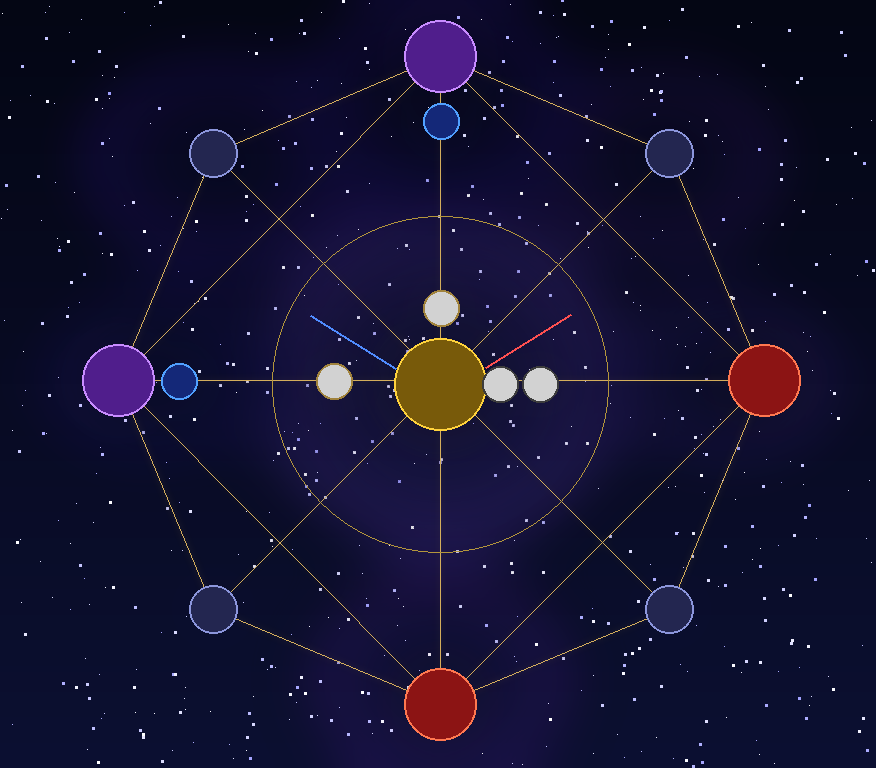
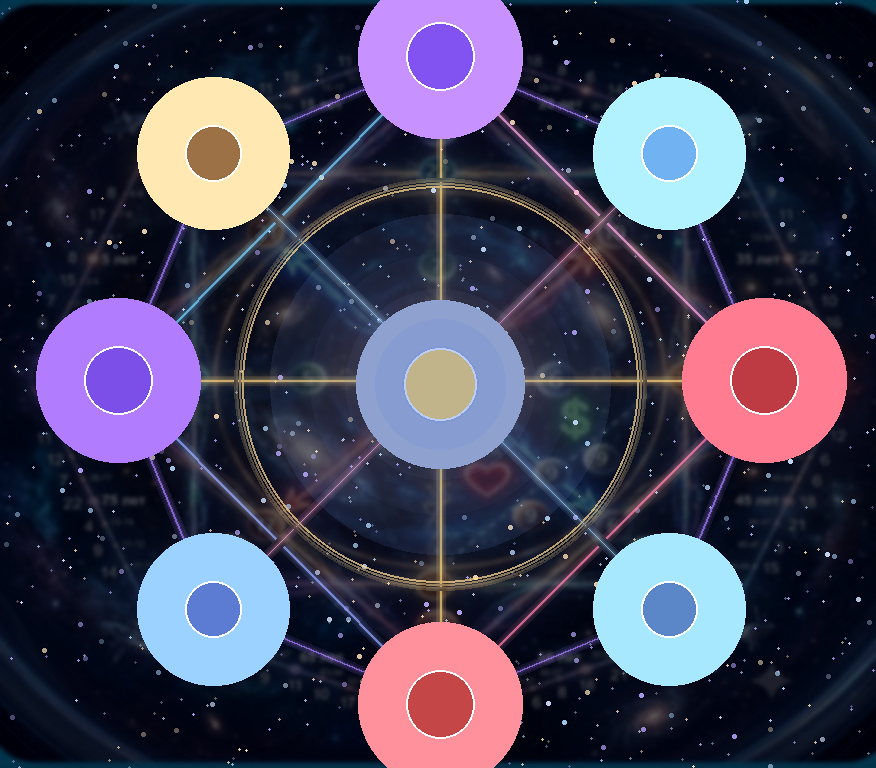
Regenerate matrix template to match reference cosmic style

diff --git a/dashboard.html b/dashboard.html
@@ -651,7 +651,7 @@
                   <svg id="matrixSvg" viewBox="0 0 876 768" xmlns="http://www.w3.org/2000/svg" class="matrix-svg">
 
                     <!-- Шаблон матрицы как фон -->
-                    <image href="matrix-template-clean.png?v=13" x="0" y="0" width="876" height="768"/>
+                    <image href="matrix-template-clean.png?v=14" x="0" y="0" width="876" height="768"/>
 
                     <!-- ════ ЧИСЛА ПОВЕРХ ШАБЛОНА (точные координаты по пикселям) ════ -->
 
